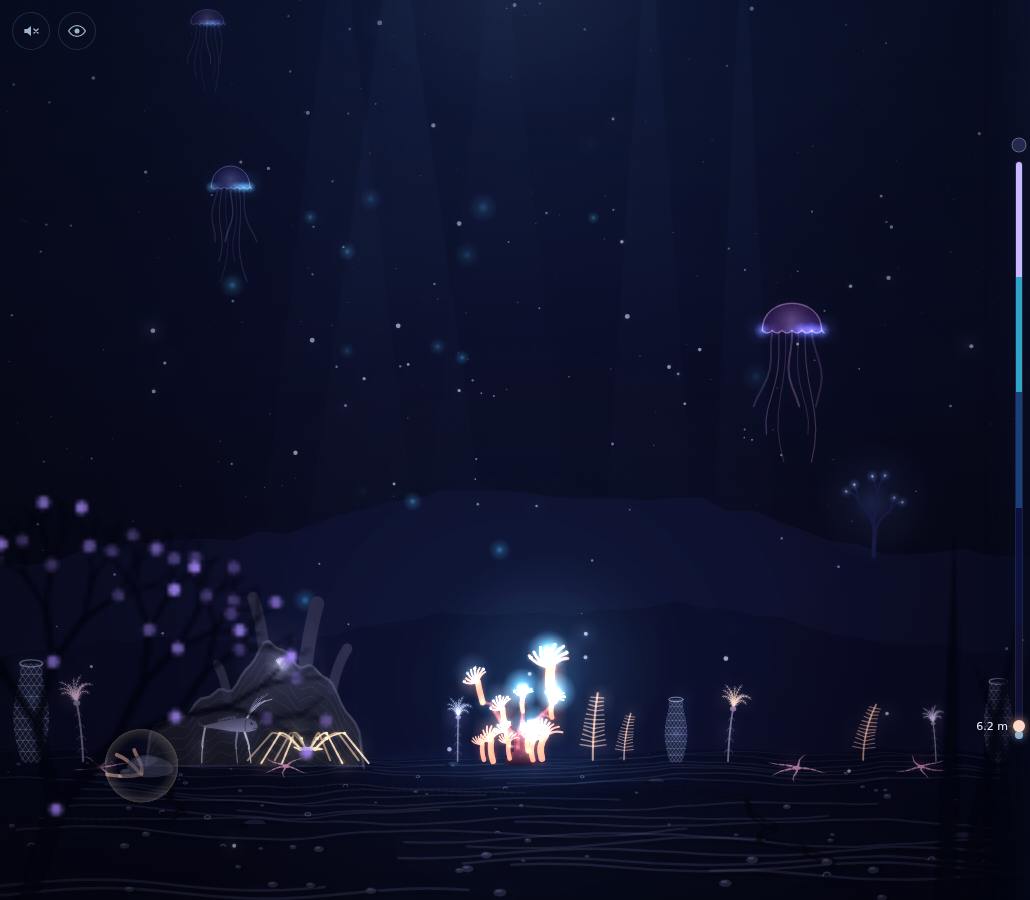
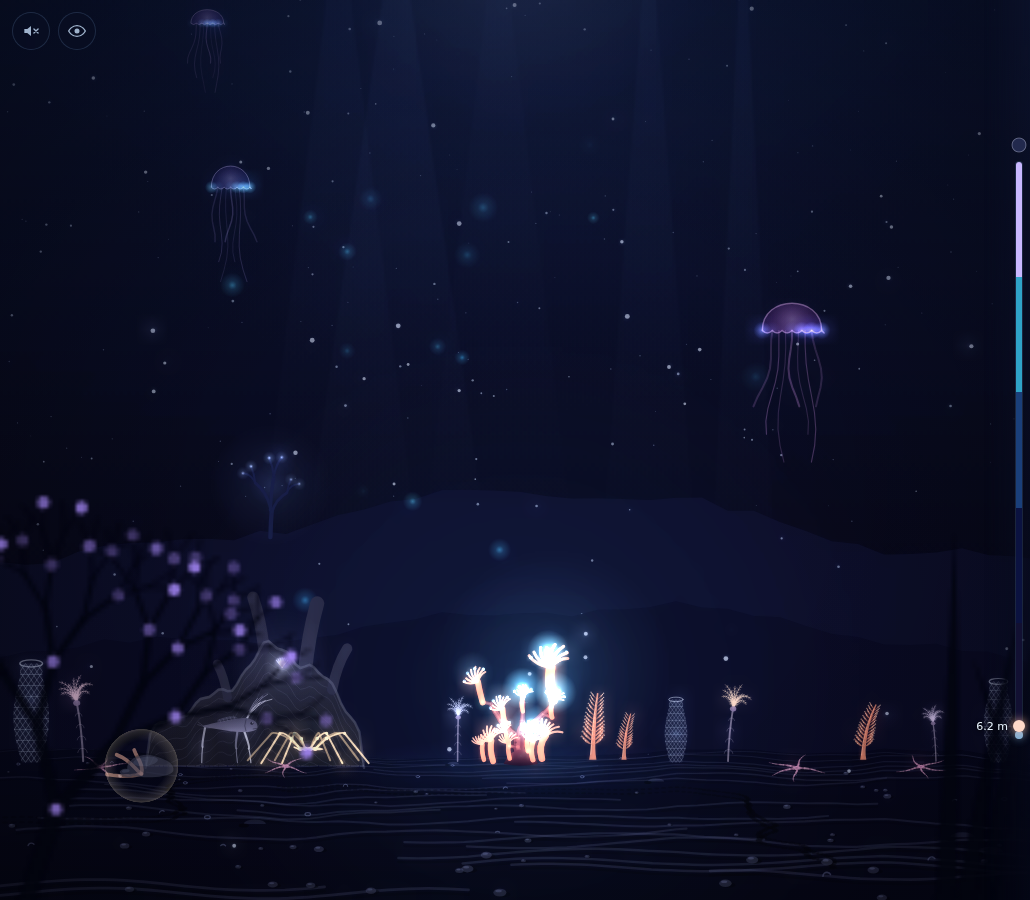
Lonely seamount: the far reef left of the reef, out of the vent's smoke

diff --git a/src/game/render/abyss.ts b/src/game/render/abyss.ts
@@ -260,7 +260,8 @@ export function createAbyssScene(seed: number): Scene {
   /** A lonely seamount: one far light on the horizon, another reef too far away to reach. */
   function drawFarLamp(ctx: CanvasRenderingContext2D, t: number): void {
     const s = scale();
-    const x = focus.x + focus.w * 0.84, y = ridgeY(0, x) + 2 * s;
+    // Left of the reef: on the right the vent's smoke and shimmer would veil it.
+    const x = focus.x + focus.w * 0.26, y = ridgeY(0, x) + 2 * s;
     const hgt = Math.min(focus.h * 0.14, 70 * s);
     const a = 0.45 + 0.2 * Math.sin(t * 0.4);
     ctx.save();

diff --git a/docs/PROGRESS.md b/docs/PROGRESS.md
@@ -1383,3 +1383,4 @@ date, what landed, what is half-done, what's next.
 - And for the cold (slow heavy water, the brine lake), buried (the Long Silt still falling), dark (the water drinks the light) and silent (nothing under it to listen to) seamounts: eight seamount lines in all, one each.
 - The shallow, thorny, heavy, gleaming and tidal seamounts show nothing different on the Silt Floor: Ossel says what each will do (warm spells that stay, intruders that come often, stone that greys fast, no feasts but lucky neighbours, great tides more often). Every seamount but the plain one now has its line.
 - The gleaming seamount ("clear as glass and empty above: nothing falls") had nothing of its own on the floor: a sixth of the marine snow falls there now, and a faint clear sea-green light lies low over the floor.
+- Ossel's lonely-seamount line points at the far reef's lights, but on a phone at 40 m they stood in the vent's smoke and shimmer, hard to find. The far reef stands on the ridge left of the reef now, in clear water (desktop and phone). The whole audit sweep (10 viewports × plain, --big, --sci, 8 stages) ran clean before this.
